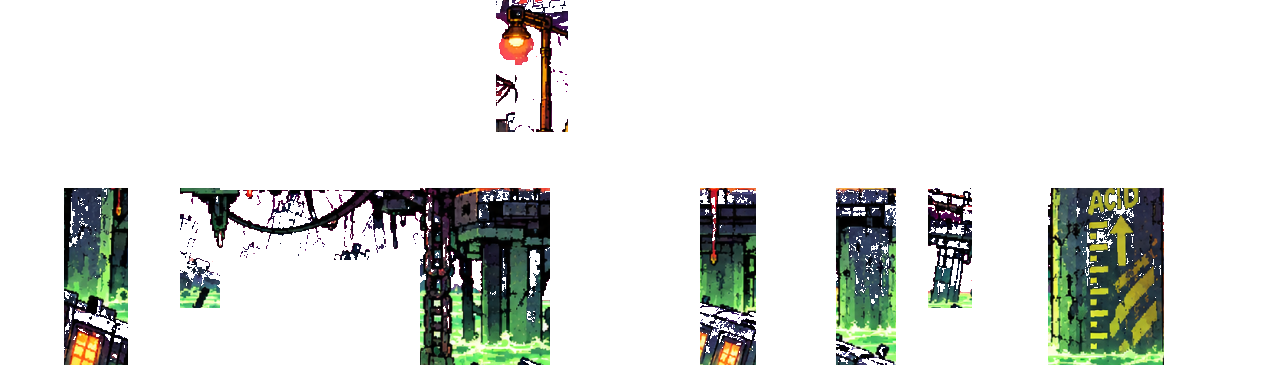
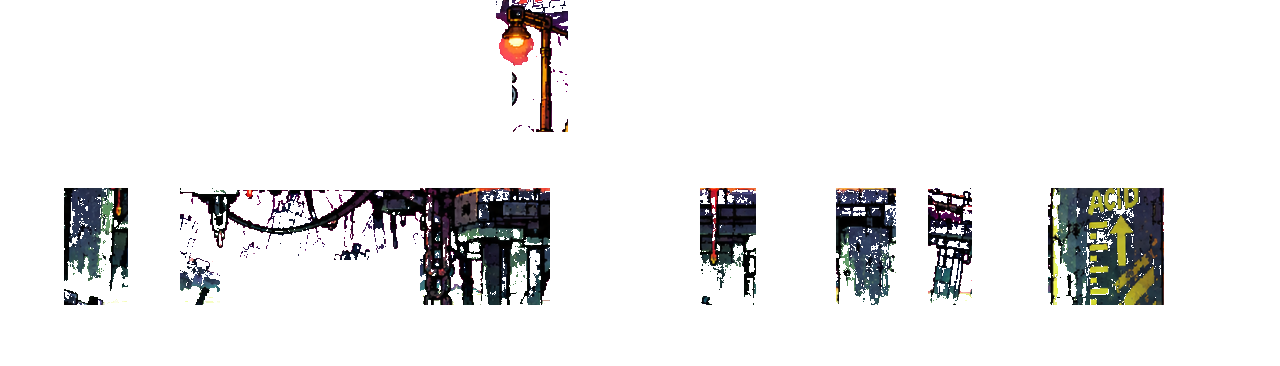
feat: cut the pier deck and the loft's underside from the mockup

diff --git a/src/rendering/survival.cpp b/src/rendering/survival.cpp
@@ -414,10 +414,16 @@ constexpr std::int32_t MOCKUP_COLUMNS = 20;
 /// How deep a band of the deck picture is, and the rows whose floor line each
 /// band shows, top to bottom; any other row shows the last.
 constexpr float DECK_DEPTH = 28.0F;
-constexpr std::array DECK_ROWS{4, 5, 6, 8, 9};
+constexpr std::array DECK_ROWS{4, 5, 6, 8, 9, 12};
 /// The rows whose building fronts each band of the wall picture shows, a
 /// cell deep, top to bottom; any other row shows the last.
 constexpr std::array WALL_ROWS{5, 6, 7};
+/// The deck of this row is the kitchen loft's, two rows over the walkway under
+/// it where the mockup's is a cell nearer: the wall picture's last band, the
+/// mockup's loft face and the dark under it, fills the rows between.
+constexpr std::int32_t LOFT_ROW = 6;
+constexpr float UNDERSIDE_TOP = 3.0F * CELL;
+constexpr float UNDERSIDE_DEPTH = 2.0F * CELL - DECK_DEPTH;
 /// The floor rows whose shop fronts each band of the shop picture shows, two
 /// cells deep, top to bottom, and how many cells across a shop front shows.
 constexpr std::array SHOP_ROWS{6, 8};
@@ -533,7 +539,8 @@ bool corroded(float top, float surface) { return surface < top + DECK_DEPTH; }
 
 /// Draws one ground cell of standing terrain under the floor line of its
 /// cell, the band of the mockup's walkway at its row and column, stained once
-/// the acid at `surface` reaches the deck, and a rubble heap standing on it
+/// the acid at `surface` reaches the deck, under the kitchen loft's deck its
+/// underside down to the walkway below, and a rubble heap standing on it
 /// where the ground is rubble. The ferry's hull is drawn whole in place of
 /// every cell it covers.
 void paint_ground_cell(godot::Node2D &canvas, const Art &art,
@@ -550,6 +557,12 @@ void paint_ground_cell(godot::Node2D &canvas, const Art &art,
     return;
   }
   paint_deck(canvas, art, ground.cell, eaten);
+  if (ground.cell.y == LOFT_ROW) {
+    art.image_part(
+        canvas, Image::BuildingWall,
+        rect(mockup_x(ground.cell.x), UNDERSIDE_TOP, CELL, UNDERSIDE_DEPTH),
+        rect(at.x, at.y + DECK_DEPTH, CELL, UNDERSIDE_DEPTH));
+  }
   if (ground.kind == GroundKind::Rubble) {
     art.image(canvas, Image::Rubble,
               Vector2(at.x, at.y - art.size(Image::Rubble).y));
